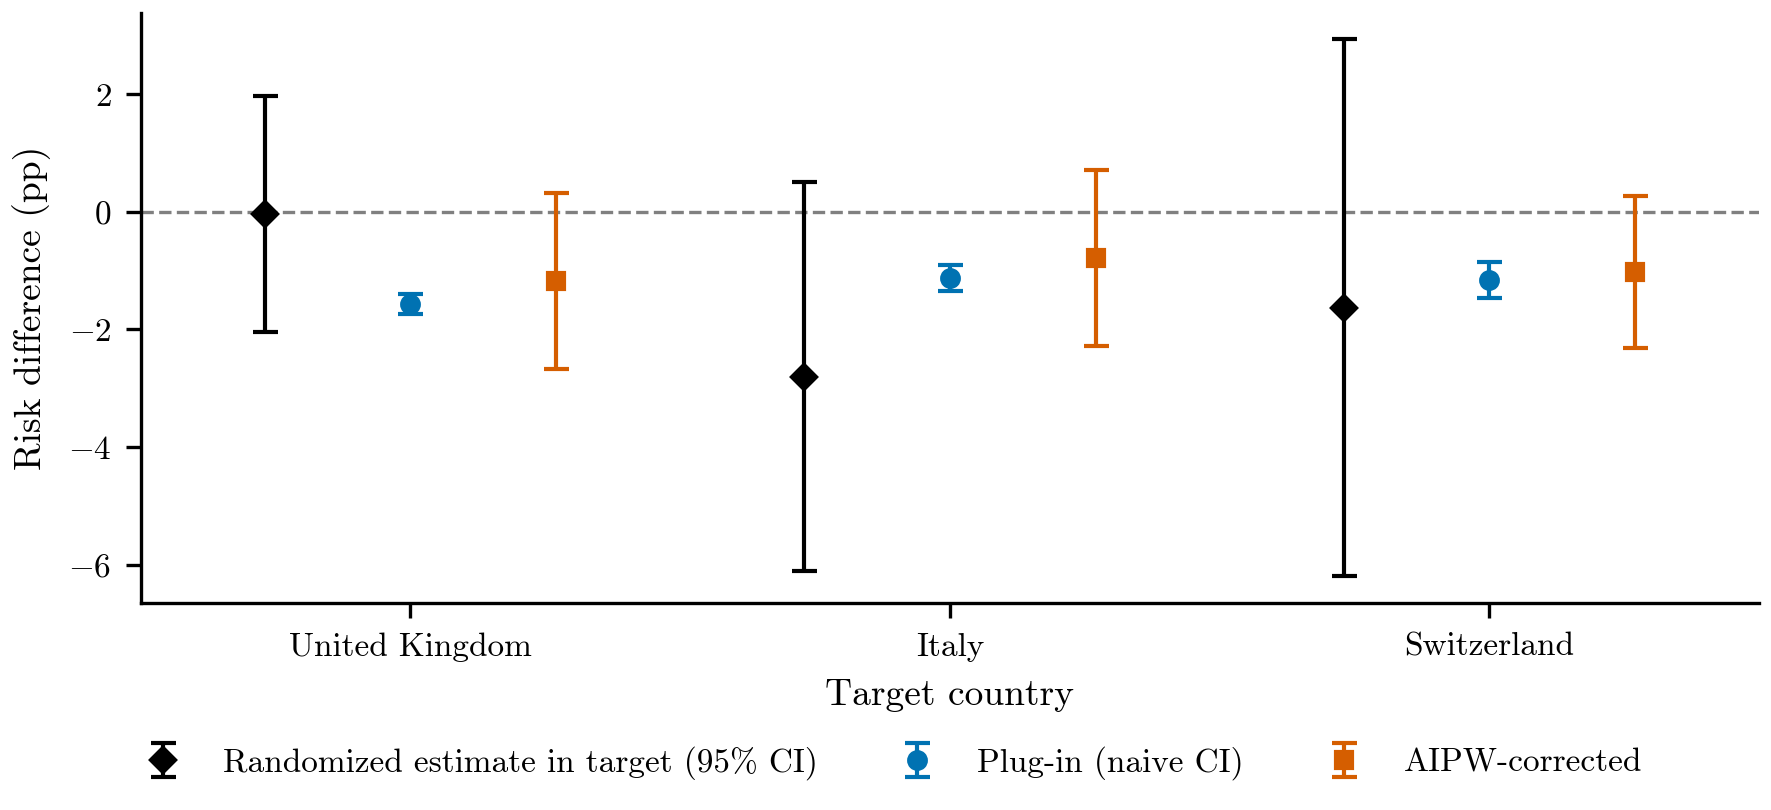
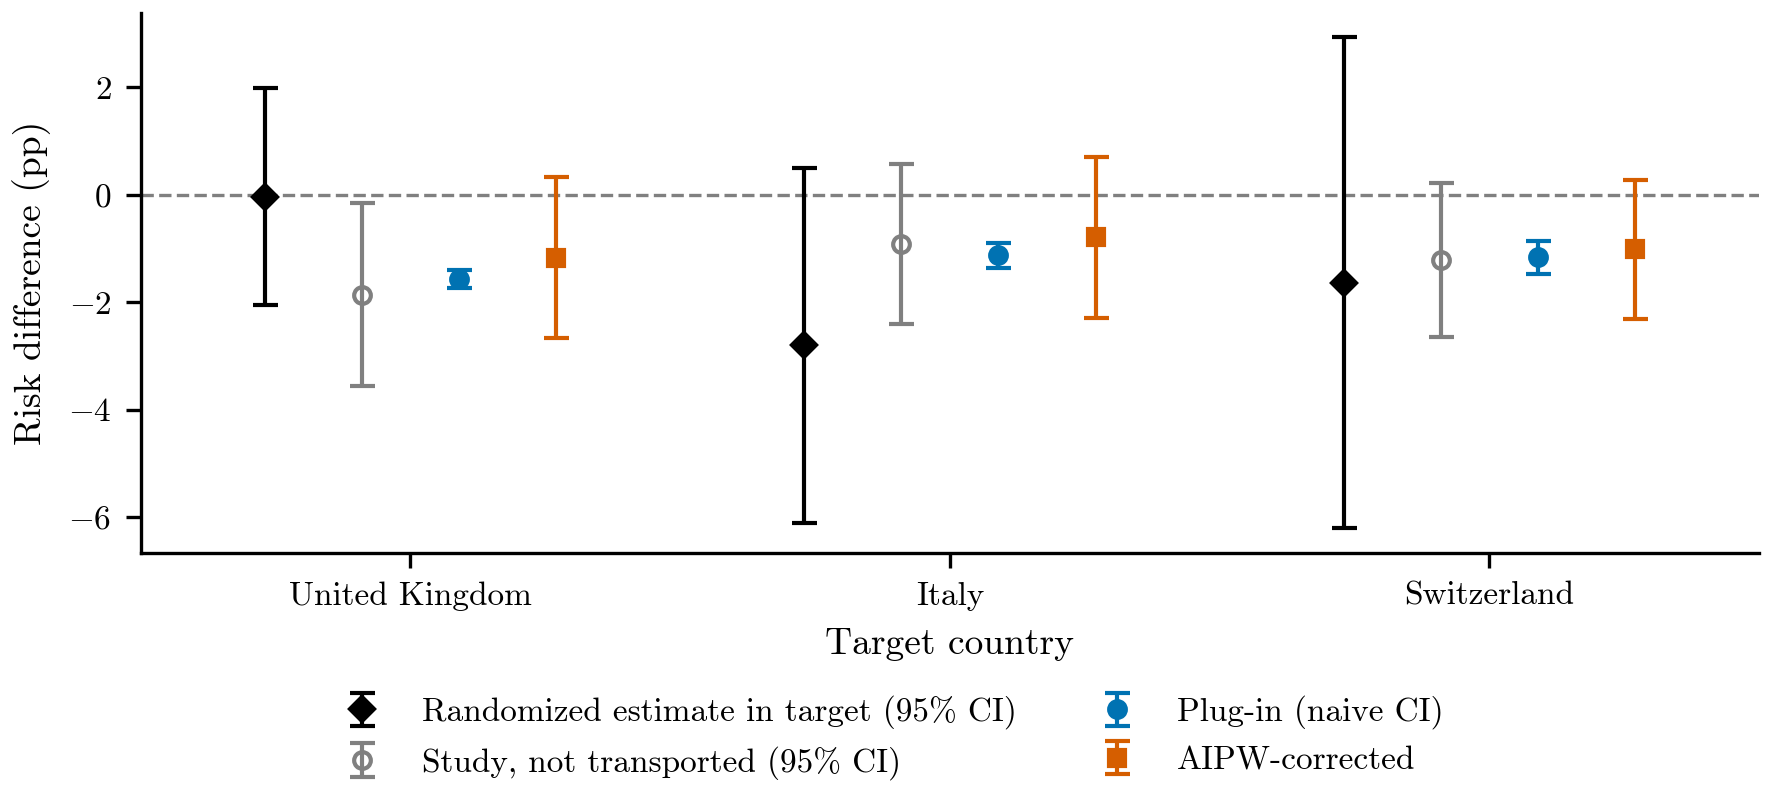
Add the interval of the untransported study estimate to the IST experiment
ist_experiment.py stores the normal-based interval of the study risk difference, plot_ist_ci
draws it, and ist_results_table.py lists it; the rerun reproduces all earlier values.
aipw_variance_table.py also prints the variance of the correction with the true nuisance
functions and the corresponding part of the true-residual estimate.

diff --git a/visualisation_code/plotting.py b/visualisation_code/plotting.py
@@ -174,10 +174,9 @@ def plot_coverage(results_list, n_reps, save_path, width_ylim=(0, 2.6)):
 COUNTRY_NAMES = {"UK": "United Kingdom", "ITAL": "Italy", "SWIT": "Switzerland"}
 
 
-def _ist_errorbar(ax, x, rows, key, label, **style):
-    """Point rows[key] with its 95% CI from rows[key_ci_low], rows[key_ci_high] (key "benchmark" uses
-    the column benchmark_rd for the point)."""
-    point = np.array([r["benchmark_rd" if key == "benchmark" else key] for r in rows])
+def _ist_errorbar(ax, x, rows, key, label, point_key=None, **style):
+    """Point rows[point_key] (default rows[key]) with its 95% CI from rows[key_ci_low], rows[key_ci_high]."""
+    point = np.array([r[point_key or key] for r in rows])
     low, high = np.array([r[f"{key}_ci_low"] for r in rows]), np.array([r[f"{key}_ci_high"] for r in rows])
     return ax.errorbar(x, point, yerr=[point - low, high - point], linestyle="none", capsize=3, linewidth=1,
                        label=label, **style)
@@ -198,6 +197,8 @@ def _ist_figure(rows, n_markers):
 
 BENCHMARK_STYLE = dict(marker="D", color="black", markersize=4)
 BENCHMARK_LABEL = "Randomized estimate in target (95% CI)"
+STUDY_STYLE = dict(marker="o", color="grey", markerfacecolor="none")
+STUDY_LABEL = "Study, not transported"
 
 
 def plot_ist(rows, learner_labels, save_path):
@@ -206,9 +207,10 @@ def plot_ist(rows, learner_labels, save_path):
     each learner's transported estimate. The learners' own uncertainty is not shown.
     """
     fig, ax, positions = _ist_figure(rows, len(learner_labels) + 2)
-    handles = [_ist_errorbar(ax, positions[0], rows, "benchmark", BENCHMARK_LABEL, **BENCHMARK_STYLE)]
+    handles = [_ist_errorbar(ax, positions[0], rows, "benchmark", BENCHMARK_LABEL, point_key="benchmark_rd",
+                             **BENCHMARK_STYLE)]
     handles += ax.plot(positions[1], [r["source_rd_untransported"] for r in rows], linestyle="none",
-                       marker="o", color="grey", markerfacecolor="none", label="Study, not transported")
+                       label=STUDY_LABEL, **STUDY_STYLE)
     for i, (x, label) in enumerate(zip(positions[2:], learner_labels)):
         handles += ax.plot(x, [r[label] for r in rows], linestyle="none", label=label, **_style(i))
     _bottom_legend(fig, handles, ncol=3)
@@ -216,13 +218,17 @@ def plot_ist(rows, learner_labels, save_path):
 
 
 def plot_ist_ci(rows, save_path):
-    """Per target country: the randomized estimate, the cross-fitted T-learner's plug-in estimate with
-    its naive 95% CI and the AIPW-corrected estimate with its 95% CI (colors as in plot_coverage)."""
-    fig, ax, positions = _ist_figure(rows, 3)
+    """Per target country: the randomized estimate, the untransported study estimate, the cross-fitted
+    T-learner's plug-in estimate (naive CI) and the AIPW-corrected estimate, each with its 95% CI
+    (colors as in plot_coverage)."""
+    fig, ax, positions = _ist_figure(rows, 4)
     handles = [
-        _ist_errorbar(ax, positions[0], rows, "benchmark", BENCHMARK_LABEL, **BENCHMARK_STYLE),
-        _ist_errorbar(ax, positions[1], rows, "plug_in", "Plug-in (naive CI)", **_style(0)),
-        _ist_errorbar(ax, positions[2], rows, "aipw", "AIPW-corrected", **_style(1)),
+        _ist_errorbar(ax, positions[0], rows, "benchmark", BENCHMARK_LABEL, point_key="benchmark_rd",
+                      **BENCHMARK_STYLE),
+        _ist_errorbar(ax, positions[1], rows, "source_rd", f"{STUDY_LABEL} (95% CI)",
+                      point_key="source_rd_untransported", **STUDY_STYLE),
+        _ist_errorbar(ax, positions[2], rows, "plug_in", "Plug-in (naive CI)", **_style(0)),
+        _ist_errorbar(ax, positions[3], rows, "aipw", "AIPW-corrected", **_style(1)),
     ]
-    _bottom_legend(fig, handles)
+    _bottom_legend(fig, handles, ncol=2)
     _save(fig, save_path)

diff --git a/thesis_scripts/tables/ist_results_table.py b/thesis_scripts/tables/ist_results_table.py
@@ -1,7 +1,7 @@
 """Table of the IST estimates behind Figures fig:ist and fig:ist-ci (Section "Results" of Chapter 6):
 per target country the randomized estimate, the untransported study estimate, the transported
 plug-in estimates of the three meta-learners, and the plug-in (naive CI) and AIPW-corrected (CI)
-estimates of the cross-fitted T-learner, in percentage points. Reads
+estimates of the cross-fitted T-learner, in percentage points, each interval as its 95% CI. Reads
 visualisation_output/ist_experiment/results.csv. Writes ist_results.tex next to this script (tabular,
 input by IST.tex).
 Run: python ist_results_table.py
@@ -15,6 +15,9 @@ COUNTRY_NAMES = {"UK": "UK", "ITAL": "Italy", "SWIT": "Switzerland"}
 
 with open(OUTPUTS / "ist_experiment" / "results.csv", newline="") as f:
     rows = list(csv.DictReader(f))
+for r in rows:
+    half_width = (float(r["source_rd_ci_high"]) - float(r["source_rd_ci_low"])) / 2
+    print(f"{r['country']}: half-width of the study interval {half_width:.2f} pp")
 
 
 def number(value):
@@ -31,6 +34,7 @@ lines_spec = [
     ("Benchmark", lambda r: number(r["benchmark_rd"])),
     ("\\quad 95\\% normal-based interval", lambda r: interval(r, "benchmark_ci_low", "benchmark_ci_high")),
     ("Study, not transported", lambda r: number(r["source_rd_untransported"])),
+    ("\\quad 95\\% normal-based interval", lambda r: interval(r, "source_rd_ci_low", "source_rd_ci_high")),
     (None, "Transported plug-in estimates (Figure~\\ref{fig:ist})"),
     ("T-learner", lambda r: number(r["T-learner"])),
     ("X-learner", lambda r: number(r["X-learner"])),

diff --git a/thesis_scripts/tables/aipw_variance_table.py b/thesis_scripts/tables/aipw_variance_table.py
@@ -9,6 +9,9 @@ this script (tabular, input by AppendixSimulation.tex). Run: python aipw_varianc
 import csv
 from pathlib import Path
 
+import numpy as np
+from scipy import integrate, stats
+
 HERE = Path(__file__).resolve().parent
 OUTPUTS = HERE.parents[1] / "visualisation_output"  # experiment outputs of this repository
 CENTRAL = ["Beta(4,6)", "Beta(5,5)", "Beta(6,4)"]
@@ -39,3 +42,16 @@ out = HERE / "aipw_variance.tex"
 out.write_text(table, encoding="utf-8")
 print(table)
 print(f"Saved to {out}")
+
+# numbers quoted in Appendix C.4 and in the DR-learner paragraph of Section 5.2, at Beta(5,5) (r = 1):
+# E[1/(e(X)(1 - e(X)))] under the study distribution Beta(5,5) (variance of q* by Remark C.2, and the
+# conditional variance of the DR pseudo-outcome with true nuisances), divided by n = 1000 for the mean
+# of the correction terms; and the part of the true-residual estimate that belongs to q_bar
+e = lambda x: 1 / (1 + np.exp(-5 * (x - 0.5)))
+moment = integrate.quad(lambda x: stats.beta(5, 5).pdf(x) / (e(x) * (1 - e(x))), 0, 1)[0]
+print(f"\nE[1/(e(1-e))] under Beta(5,5): {moment:.2f}; divided by n = 1000: {moment / 1000:.4f}")
+for exp_num in range(1, 5):
+    with open(OUTPUTS / f"ate_estimator_experiment_{exp_num}" / "diagnostics.csv", newline="") as f:
+        r = {r["test_distribution"]: r for r in csv.DictReader(f)}["Beta(5,5)"]
+    print(f"E{exp_num}, Beta(5,5): q_bar part of the true-residual estimate "
+          f"{float(r['est_var_aipw_oracle_resid']) - float(r['est_var_t_bar']):.4f}")

diff --git a/running_code/ist_experiment.py b/running_code/ist_experiment.py
@@ -88,6 +88,7 @@ rows = []
 for country in TARGET_COUNTRIES:
     target = data.country == country
     rd, se, n1, n0 = risk_difference(data.y[target], data.a[target])
+    study_rd, study_se, _, _ = risk_difference(data.y[~target], data.a[~target])
     result = ate_results[country]
     ate_columns = {}
     for key in ("plug_in", "aipw"):
@@ -100,7 +101,9 @@ for country in TARGET_COUNTRIES:
         "n_target": int(target.sum()),
         "n_target_aspirin": n1,
         "n_target_control": n0,
-        "source_rd_untransported": 100 * risk_difference(data.y[~target], data.a[~target])[0],
+        "source_rd_untransported": 100 * study_rd,
+        "source_rd_ci_low": 100 * (study_rd - 1.96 * study_se),
+        "source_rd_ci_high": 100 * (study_rd + 1.96 * study_se),
         **{tag: 100 * est for tag, est in estimates[country].items()},
         **ate_columns,
         "ratio_capped_share": result["ratio_capped_share"],

diff --git a/visualisation_output/ist_experiment/running_code.py b/visualisation_output/ist_experiment/running_code.py
@@ -88,6 +88,7 @@ rows = []
 for country in TARGET_COUNTRIES:
     target = data.country == country
     rd, se, n1, n0 = risk_difference(data.y[target], data.a[target])
+    study_rd, study_se, _, _ = risk_difference(data.y[~target], data.a[~target])
     result = ate_results[country]
     ate_columns = {}
     for key in ("plug_in", "aipw"):
@@ -100,7 +101,9 @@ for country in TARGET_COUNTRIES:
         "n_target": int(target.sum()),
         "n_target_aspirin": n1,
         "n_target_control": n0,
-        "source_rd_untransported": 100 * risk_difference(data.y[~target], data.a[~target])[0],
+        "source_rd_untransported": 100 * study_rd,
+        "source_rd_ci_low": 100 * (study_rd - 1.96 * study_se),
+        "source_rd_ci_high": 100 * (study_rd + 1.96 * study_se),
         **{tag: 100 * est for tag, est in estimates[country].items()},
         **ate_columns,
         "ratio_capped_share": result["ratio_capped_share"],

diff --git a/thesis_scripts/tables/ist_results.tex b/thesis_scripts/tables/ist_results.tex
@@ -4,7 +4,8 @@
 \hline
 Benchmark & $-0.04$ & $-2.80$ & $-1.63$ \\
 \quad 95\% normal-based interval & ($-2.05$, $1.97$) & ($-6.11$, $0.50$) & ($-6.20$, $2.93$) \\
-Study, not transported & $-1.86$ & $-0.92$ & $-1.22$ \\[3pt]
+Study, not transported & $-1.86$ & $-0.92$ & $-1.22$ \\
+\quad 95\% normal-based interval & ($-3.56$, $-0.15$) & ($-2.41$, $0.58$) & ($-2.64$, $0.21$) \\[3pt]
 \multicolumn{4}{l}{\textit{Transported plug-in estimates (Figure~\ref{fig:ist})}} \\
 T-learner & $-1.42$ & $-1.46$ & $-1.29$ \\
 X-learner & $-1.47$ & $-1.38$ & $-1.34$ \\

diff --git a/thesis_scripts/README.md b/thesis_scripts/README.md
@@ -11,7 +11,7 @@ Each script writes its `.tex` table next to itself; the tables are copied to the
 | Script | Table | Thesis |
 |---|---|---|
 | `bias_mse_tables.py` | `meta_bias.tex`, `meta_mse.tex`, `ate_bias.tex`, `ate_mse.tex` | Appendix C.1 |
-| `aipw_variance_table.py` | `aipw_variance.tex` | Appendix C.4 |
+| `aipw_variance_table.py` | `aipw_variance.tex` | Appendix C.4; also prints the variance of the correction with the true nuisance functions (Appendix C.4, DR-learner paragraph of Section 5.2) |
 | `ist_table.py` | `ist_data.tex` | Section 6.1 |
 | `ist_results_table.py` | `ist_results.tex` | Section 6.3 |
 
